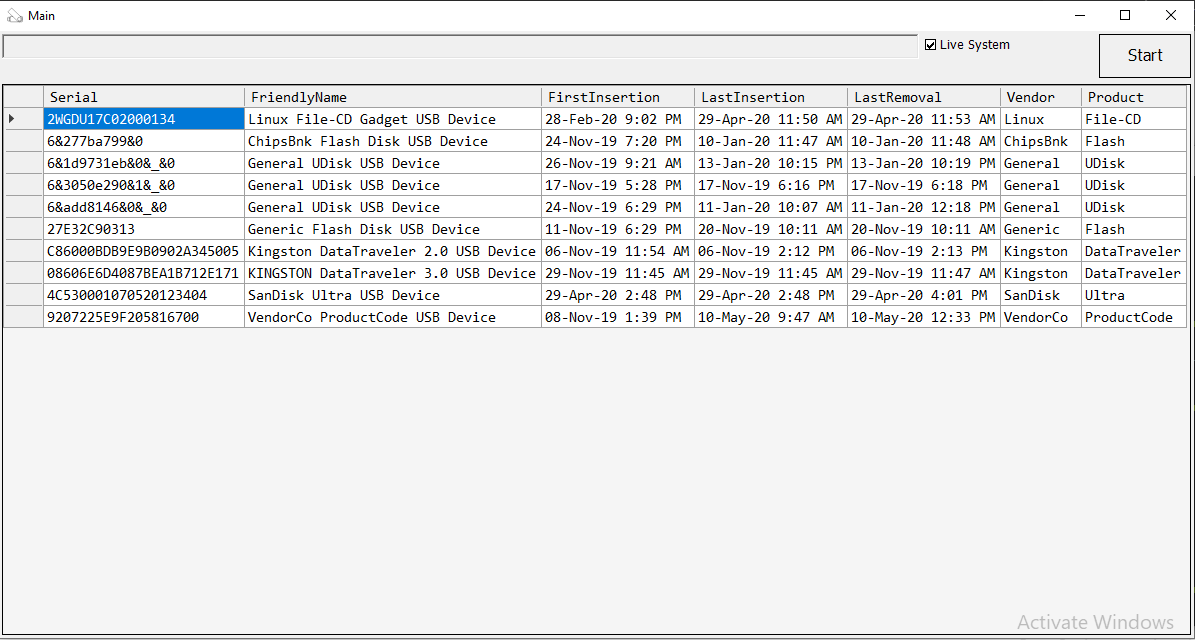
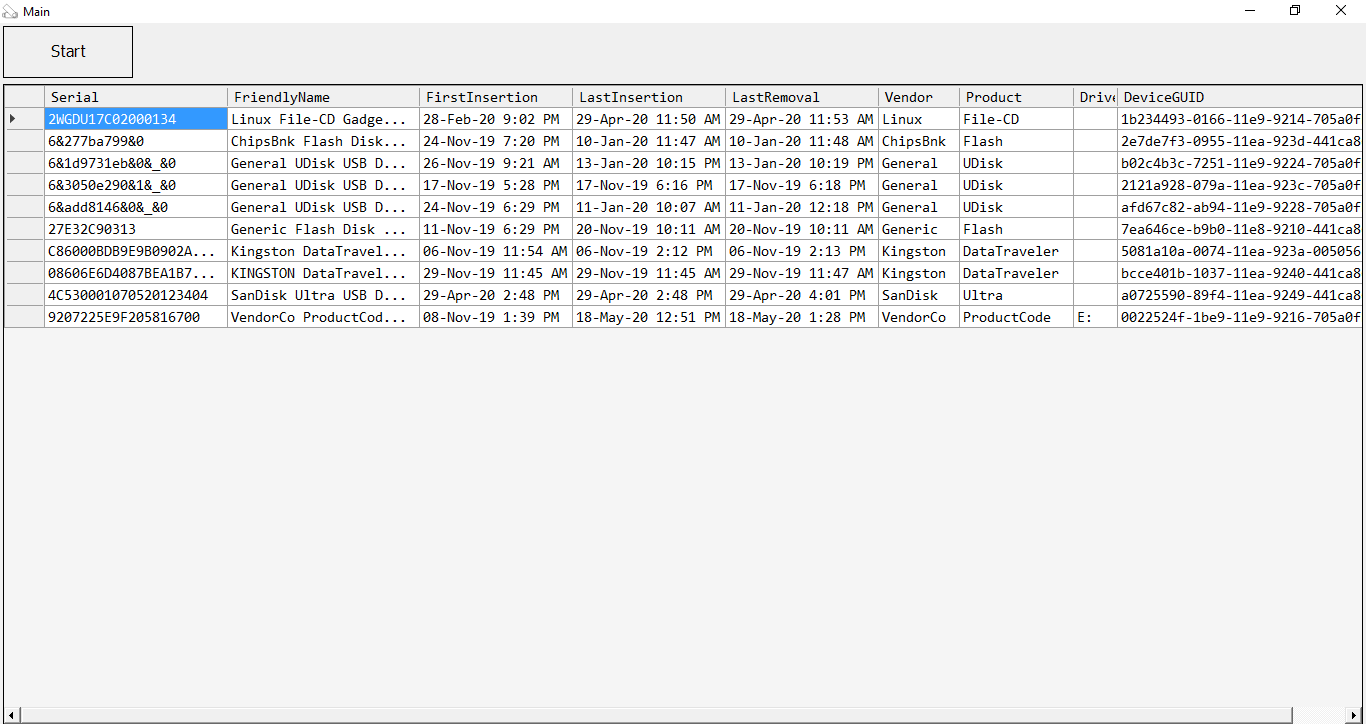
Added GUID feature

Changed region(s): [[0.0, 0.0, 1.0, 1.0]]

diff --git a/Main.cs b/Main.cs
@@ -4,7 +4,6 @@ using System.Windows.Forms;
 using Registry;
 using System.IO;
 using System;
-using System.Diagnostics;
 
 namespace RegistryReader
 {
@@ -13,34 +12,36 @@ namespace RegistryReader
         string USBSTOR = @"ROOT\ControlSet001\Enum\USBSTOR";
         string dateKey = "{83da6326-97a6-4088-9453-a1923f573b29}";
         string dateValue = "(default)";
+        string mountedDevices = @"ROOT\MountedDevices";
 
         private RegistryHiveOnDemand _hive;
+
+        private OptionSelector _options;
 
         public Main()
         {
             InitializeComponent();
 
-            chkLive.CheckedChanged += ChkLive_CheckedChanged;
-            btnStart.Click += BtnStart_Click;
-        }
+            _options = new OptionSelector();
 
-        private void ChkLive_CheckedChanged(object sender, EventArgs e)
-        {
-            txtPath.Enabled = !chkLive.Checked;
+            btnStart.Click += BtnStart_Click;
         }
 
         private void BtnStart_Click(object sender, EventArgs e)
         {
-            string hivePath = GetHivePath();
+            _options.ShowDialog();
 
-            if (hivePath == null)
+            string hivePath = _options.SystemHive;
+
+            if (hivePath == null || hivePath == "")
                 return;
 
             _hive = new RegistryHiveOnDemand(hivePath);
 
             ParseUSBStor();
 
-            File.Delete(txtPath.Text);
+            if (_options.LiveSystem)
+                File.Delete(_options.SystemHive);
         }
 
         public void ParseUSBStor()
@@ -63,7 +64,7 @@ namespace RegistryReader
 
                     dev.SetSerial(serial.KeyName);
                     dev.SetDescription(description);
-                    dev.FriendlyName = GetValue(serial.KeyPath, "FriendlyName");
+                    dev.FriendlyName = GetValueByKey(serial.KeyPath, "FriendlyName");
 
                     key = _hive.GetKey(serial.KeyPath + "\\Properties\\" + dateKey);
 
@@ -71,13 +72,28 @@ namespace RegistryReader
                     var lastInKey = key.SubKeys.FirstOrDefault(x => x.KeyName == "0066");
                     var lastRemKey = key.SubKeys.FirstOrDefault(x => x.KeyName == "0067");
 
-                    string firstIn = GetValue(firstInKey.KeyPath, dateValue);
-                    string lastIn = GetValue(lastInKey.KeyPath, dateValue);
-                    string lastRem = GetValue(lastRemKey.KeyPath, dateValue);
+                    string firstIn = GetValueByKey(firstInKey.KeyPath, dateValue);
+                    string lastIn = GetValueByKey(lastInKey.KeyPath, dateValue);
+                    string lastRem = GetValueByKey(lastRemKey.KeyPath, dateValue);
 
                     dev.SetFirstInsertion(firstIn);
                     dev.SetLastInsertion(lastIn);
                     dev.SetLastRemoval(lastRem);
+
+                    var mountedDevsEntries = GetKeysByValue(mountedDevices, serial.KeyName);
+
+                    // This list should contain 2 elements, one for the drive letter, another for the GUID
+                    foreach (string entry in mountedDevsEntries)
+                    {
+                        if (entry.StartsWith("\\??\\"))
+                        {
+                            dev.SetDeviceGUID(entry);
+                        }
+                        else
+                        {
+                            dev.SetDriveLetter(entry);
+                        }
+                    }
 
                     devices.Add(dev);
                 }
@@ -86,7 +102,7 @@ namespace RegistryReader
             SetGridSource(devices);
         }
 
-        private string GetValue(string keyPath, string valueName)
+        private string GetValueByKey(string keyPath, string valueName)
         {
             string result = null;
 
@@ -105,6 +121,29 @@ namespace RegistryReader
             return result;
         }
 
+        private List<string> GetKeysByValue(string keyPath, string valueData)
+        {
+            List<string> result = new List<string>();
+
+            Registry.Abstractions.RegistryKey key = _hive.GetKey(keyPath);
+
+            if (key != null)
+            {
+                foreach (var item in key.Values)
+                {
+                    string s = item.ValueType == "RegBinary" ?
+                        System.Text.Encoding.Unicode.GetString(item.ValueDataRaw) : item.ValueData;
+
+                    if (s.Contains(valueData))
+                    {
+                        result.Add(item.ValueName);
+                    }
+                }
+            }
+
+            return result;
+        }
+
         private void SetGridSource(List<USBDevice> devices)
         {
             grid.DataSource = devices;
@@ -113,54 +152,6 @@ namespace RegistryReader
             grid.Font = new System.Drawing.Font("Consolas", 11F);
 
             grid.AutoResizeColumns();
-        }
-
-        private string GetHivePath()
-        {
-            if (!txtPath.Enabled)
-            {
-                GetSystemHive();
-            }
-
-            if (txtPath.Text != "")
-                return txtPath.Text;
-
-            OpenFileDialog ofd = new OpenFileDialog();
-            ofd.Title = "Open Hive File";
-            ofd.InitialDirectory = @"C:\";
-            ofd.Multiselect = false;
-
-            if (ofd.ShowDialog() == DialogResult.OK)
-            {
-                txtPath.Text = ofd.FileName;
-                return ofd.FileName;
-            }
-            else return null;
-        }
-
-        private void GetSystemHive()
-        {
-            string timestamp = DateTime.Now.Subtract(DateTime.MinValue).TotalSeconds.ToString();
-            string savePath = Path.Combine(Environment.CurrentDirectory, timestamp);
-
-            try
-            {
-                ProcessStartInfo startInfo = new ProcessStartInfo();
-                startInfo.WindowStyle = ProcessWindowStyle.Hidden;
-                startInfo.FileName = "cmd.exe";
-                startInfo.Arguments = "/C reg save HKLM\\SYSTEM " + "\"" + savePath + "\"";
-                startInfo.Verb = "runas";
-
-                Process p = Process.Start(startInfo);
-
-                while (!p.HasExited);
-            }
-            catch
-            {
-                savePath = null;
-            }
-
-            txtPath.Text = savePath;
         }
     }
 }

diff --git a/Main.Designer.cs b/Main.Designer.cs
@@ -32,8 +32,6 @@
             this.grid = new System.Windows.Forms.DataGridView();
             this.tableLayoutPanel = new System.Windows.Forms.TableLayoutPanel();
             this.btnStart = new System.Windows.Forms.Button();
-            this.txtPath = new System.Windows.Forms.TextBox();
-            this.chkLive = new System.Windows.Forms.CheckBox();
             ((System.ComponentModel.ISupportInitialize)(this.grid)).BeginInit();
             this.tableLayoutPanel.SuspendLayout();
             this.SuspendLayout();
@@ -42,7 +40,7 @@
             // 
             this.grid.BackgroundColor = System.Drawing.Color.WhiteSmoke;
             this.grid.ColumnHeadersHeightSizeMode = System.Windows.Forms.DataGridViewColumnHeadersHeightSizeMode.AutoSize;
-            this.tableLayoutPanel.SetColumnSpan(this.grid, 3);
+            this.tableLayoutPanel.SetColumnSpan(this.grid, 2);
             this.grid.Dock = System.Windows.Forms.DockStyle.Fill;
             this.grid.Location = new System.Drawing.Point(3, 45);
             this.grid.Name = "grid";
@@ -51,14 +49,11 @@
             // 
             // tableLayoutPanel
             // 
-            this.tableLayoutPanel.ColumnCount = 3;
-            this.tableLayoutPanel.ColumnStyles.Add(new System.Windows.Forms.ColumnStyle(System.Windows.Forms.SizeType.Percent, 84.07643F));
-            this.tableLayoutPanel.ColumnStyles.Add(new System.Windows.Forms.ColumnStyle(System.Windows.Forms.SizeType.Percent, 15.92357F));
-            this.tableLayoutPanel.ColumnStyles.Add(new System.Windows.Forms.ColumnStyle(System.Windows.Forms.SizeType.Absolute, 97F));
+            this.tableLayoutPanel.ColumnCount = 2;
+            this.tableLayoutPanel.ColumnStyles.Add(new System.Windows.Forms.ColumnStyle(System.Windows.Forms.SizeType.Percent, 10F));
+            this.tableLayoutPanel.ColumnStyles.Add(new System.Windows.Forms.ColumnStyle(System.Windows.Forms.SizeType.Percent, 90F));
             this.tableLayoutPanel.Controls.Add(this.grid, 0, 1);
-            this.tableLayoutPanel.Controls.Add(this.txtPath, 0, 0);
-            this.tableLayoutPanel.Controls.Add(this.btnStart, 2, 0);
-            this.tableLayoutPanel.Controls.Add(this.chkLive, 1, 0);
+            this.tableLayoutPanel.Controls.Add(this.btnStart, 0, 0);
             this.tableLayoutPanel.Dock = System.Windows.Forms.DockStyle.Fill;
             this.tableLayoutPanel.Location = new System.Drawing.Point(0, 0);
             this.tableLayoutPanel.Name = "tableLayoutPanel";
@@ -75,35 +70,12 @@
             | System.Windows.Forms.AnchorStyles.Right)));
             this.btnStart.FlatStyle = System.Windows.Forms.FlatStyle.Flat;
             this.btnStart.Font = new System.Drawing.Font("Tahoma", 12F, System.Drawing.FontStyle.Regular, System.Drawing.GraphicsUnit.Point, ((byte)(0)));
-            this.btnStart.Location = new System.Drawing.Point(741, 3);
+            this.btnStart.Location = new System.Drawing.Point(3, 3);
             this.btnStart.Name = "btnStart";
-            this.btnStart.Size = new System.Drawing.Size(92, 36);
+            this.btnStart.Size = new System.Drawing.Size(77, 36);
             this.btnStart.TabIndex = 1;
             this.btnStart.Text = "Start";
             this.btnStart.UseVisualStyleBackColor = true;
-            // 
-            // txtPath
-            // 
-            this.txtPath.Anchor = ((System.Windows.Forms.AnchorStyles)((((System.Windows.Forms.AnchorStyles.Top | System.Windows.Forms.AnchorStyles.Bottom) 
-            | System.Windows.Forms.AnchorStyles.Left) 
-            | System.Windows.Forms.AnchorStyles.Right)));
-            this.txtPath.Font = new System.Drawing.Font("Consolas", 11F, System.Drawing.FontStyle.Regular, System.Drawing.GraphicsUnit.Point, ((byte)(0)));
-            this.txtPath.Location = new System.Drawing.Point(3, 3);
-            this.txtPath.Name = "txtPath";
-            this.txtPath.Size = new System.Drawing.Size(615, 25);
-            this.txtPath.TabIndex = 2;
-            // 
-            // chkLive
-            // 
-            this.chkLive.AutoSize = true;
-            this.chkLive.FlatStyle = System.Windows.Forms.FlatStyle.Flat;
-            this.chkLive.Font = new System.Drawing.Font("Tahoma", 10F, System.Drawing.FontStyle.Regular, System.Drawing.GraphicsUnit.Point, ((byte)(0)));
-            this.chkLive.Location = new System.Drawing.Point(624, 3);
-            this.chkLive.Name = "chkLive";
-            this.chkLive.Size = new System.Drawing.Size(98, 21);
-            this.chkLive.TabIndex = 3;
-            this.chkLive.Text = "Live System";
-            this.chkLive.UseVisualStyleBackColor = true;
             // 
             // Main
             // 
@@ -116,7 +88,6 @@
             this.Text = "Main";
             ((System.ComponentModel.ISupportInitialize)(this.grid)).EndInit();
             this.tableLayoutPanel.ResumeLayout(false);
-            this.tableLayoutPanel.PerformLayout();
             this.ResumeLayout(false);
 
         }
@@ -126,7 +97,5 @@
         private System.Windows.Forms.DataGridView grid;
         private System.Windows.Forms.TableLayoutPanel tableLayoutPanel;
         private System.Windows.Forms.Button btnStart;
-        private System.Windows.Forms.TextBox txtPath;
-        private System.Windows.Forms.CheckBox chkLive;
     }
 }

diff --git a/USBDevice.cs b/USBDevice.cs
@@ -20,6 +20,8 @@ namespace RegistryReader
 
         public string Vendor { get; private set; }
         public string Product { get; private set; }
+        public string DriveLetter { get; private set; }
+        public string DeviceGUID { get; private set; }
 
         public void SetFirstInsertion(string firstInsertion)
         {
@@ -63,6 +65,30 @@ namespace RegistryReader
                 else
                 {
                     Serial = serial;
+                }
+            }
+        }
+        public void SetDriveLetter(string driveString)
+        {
+            if(driveString != null)
+            {
+                var split = driveString.Split('\\');
+
+                if(split.Length > 1)
+                {
+                    DriveLetter = split[split.Length - 1];
+                }
+            }
+        }
+        public void SetDeviceGUID(string guidString)
+        {
+            if(guidString != null)
+            {
+                var split = guidString.Split('{');
+
+                if(split.Length > 1)
+                {
+                    DeviceGUID = split[1].TrimEnd('}');
                 }
             }
         }

diff --git a/Program.cs b/Program.cs
@@ -8,8 +8,15 @@ namespace RegistryReader
         [STAThread]
         public static void Main(string[] args)
         {
+            Application.SetUnhandledExceptionMode(UnhandledExceptionMode.CatchException);
+            Application.ThreadException += Application_ThreadException;
 
             Application.Run(new Main());
+        }
+
+        private static void Application_ThreadException(object sender, System.Threading.ThreadExceptionEventArgs e)
+        {
+            MessageBox.Show(e.Exception.Message);
         }
     }
 }
